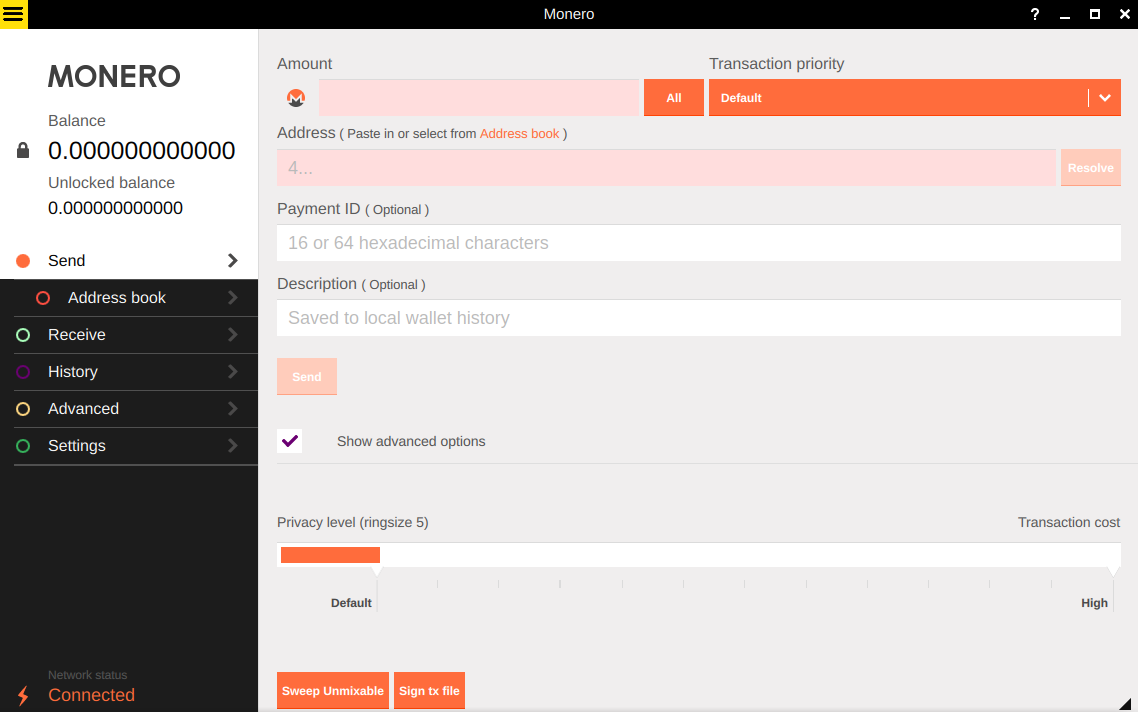
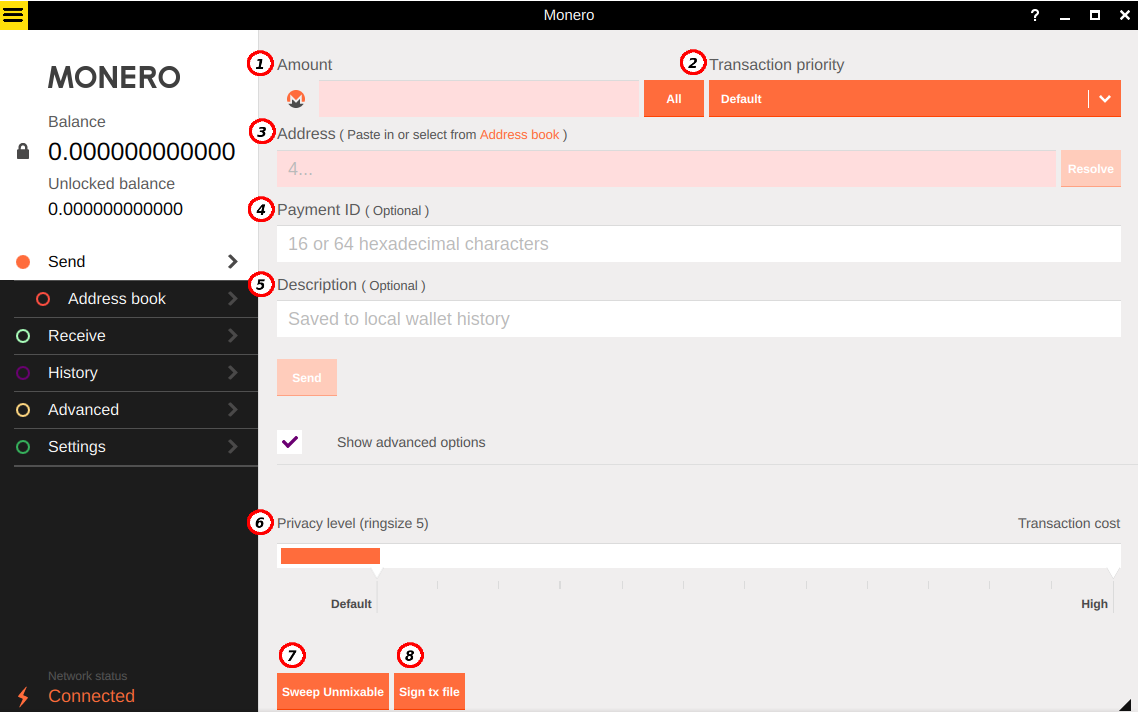
make style of section 3 and 4 consistent and ad new picture for section 4

diff --git a/GUI-tutorial.md b/GUI-tutorial.md
@@ -90,16 +90,16 @@ After clicking this option a window will pop up. Just navigate to your file with
 
 After creating/recovering your wallet, you will be prompted to the "Settings" page. From here you have the possibility to personalize your configurations.
 
-**(1)** Close your wallet (gives the possibility to choose another language).    
-**(2)** Insert a name and a password if you want to create a view-only wallet.    
-**(3)** Make a complete rescan of your spent outputs.    
-**(4)** Change the password of your wallet.    
-**(5)** Manage settings for your local node.    
-**(6)** Manage settings for your remote node.    
-**(7)** Show advanced options ('Local daemon startup flags' and 'node login', in case the remote node requires authentication).    
-**(8)** Start your local node.    
-**(9)** Show daemon status.    
-**(10)** Remote node address and port.    
+**(1) Close wallet:** Close your wallet (gives the possibility to choose another language).    
+**(2) Create viw only wallet:** Insert a name and a password if you want to create a view-only wallet.    
+**(3) Rescan wallet balance:** Make a complete rescan of your spent outputs.    
+**(4) Change password:** Change the password of your wallet.    
+**(5) Local node:** Manage settings for your local node.    
+**(6) Remote node:** Manage settings for your remote node.    
+**(7) Show advanced:** Show advanced options, like 'Local daemon startup flags' and 'node login', in case the remote node requires authentication.    
+**(8) Start local node:** Start your local node.    
+**(9) Show status** Show daemon status.    
+**(10) Remote node:** Remote node address and port.    
 
 ## 3.1. Use a remote node
 Using a remote node is the fastest way to start a wallet, but you won't have all the benefits of running a full local node. You also need to specify the address of the remote daemon.
@@ -132,23 +132,23 @@ This scans the Monero blockchain for any funds that belong to you.
 
 After clicking the "Send" tab on the left menu, you need to specify the following:
 
-**Amount:** This is how much Monero you want to send.
+**(1) Amount:** This is how much Monero you want to send.
 
-**Transaction priority:** This is the priority your transaction will get in the mempool of transactions waiting to be into a block on the Monero blockchain. The more you pay the more likely you will get included in the next block. Which means that your transaction will verify faster. Currently just staying with the default or even using the slow option is likely to get you into the next block.
+**(2) Transaction priority:** This is the priority your transaction will get in the mempool of transactions waiting to be into a block on the Monero blockchain. The more you pay the more likely you will get included in the next block. Which means that your transaction will verify faster. Currently just staying with the default or even using the slow option is likely to get you into the next block.
 
-**Address:** This is where you put the Monero address you are sending to. The best practice is to copy and paste addresses to prevent errors, but visually double check the pasted address is correct.
+**(3) Address:** This is where you put the Monero address you are sending to. The best practice is to copy and paste addresses to prevent errors, but visually double check the pasted address is correct.
 
-**Payment ID:** The payment ID is an identity attached to the transaction you are about to send. Often when sending to an exchange they will give you a payment ID that you must include here. This is so they know which incoming transaction is from you.
+**(4) Payment ID:** The payment ID is an identity attached to the transaction you are about to send. Often when sending to an exchange they will give you a payment ID that you must include here. This is so they know which incoming transaction is from you.
 
 *If you forget to add your payment ID you should still be able to recover your funds by contacting the party you sent Monero to.*
 
-**Description:** This is for your record keeping. You can add some information regarding your transaction for future reference.
+**(5) Description:** This is for your record keeping. You can add some information regarding your transaction for future reference.
 
-**Privacy level (ringsize):** This setting increases the size of the ring signatures in your transaction. Higher ring sizes *may* increase privacy of the transaction but it also increases the fees. I would recommend leaving this as the default 5. Learn more about [ring signatures](https://getmonero.org/resources/moneropedia/ringsignatures.html).
+**(6) Privacy level (ringsize):** This setting increases the size of the ring signatures in your transaction. Higher ring sizes *may* increase privacy of the transaction but it also increases the fees. I would recommend leaving this as the default 5. Learn more about [ring signatures](https://getmonero.org/resources/moneropedia/ringsignatures.html).
 
-**Sweep unmixable:** This allows you to get rid of outputs in your wallet which have strange amounts like `0.000006839355` which are unmovable without combining them with another output. You will more than likely never need to use this feature.
+**(7) Sweep unmixable:** This allows you to get rid of outputs in your wallet which have strange amounts like `0.000006839355` which are unmovable without combining them with another output. You will more than likely never need to use this feature.
 
-**Sign tx file:** This button allows you to cryptographically sign a file with your private key. This is useful if you want to verify a transaction on an offline wallet.
+**(8) Sign tx file:** This button allows you to cryptographically sign a file with your private key. This is useful if you want to verify a transaction on an offline wallet.
 
 ## 4.1. Address Book
 This section lets you save users you frequently transact with. Addresses you put in your address book can be easily copied over when sending a transaction.
